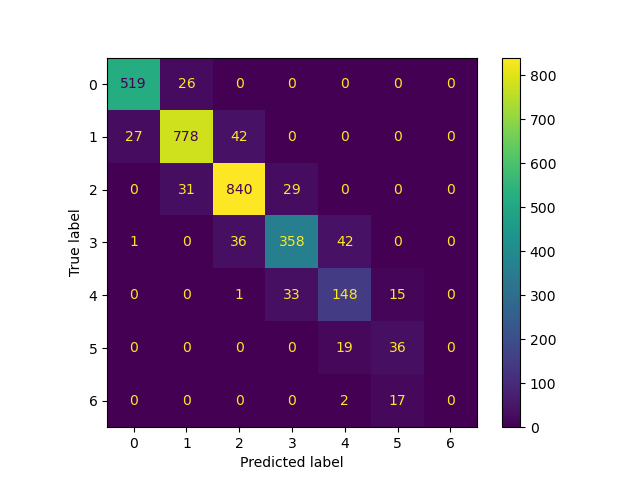
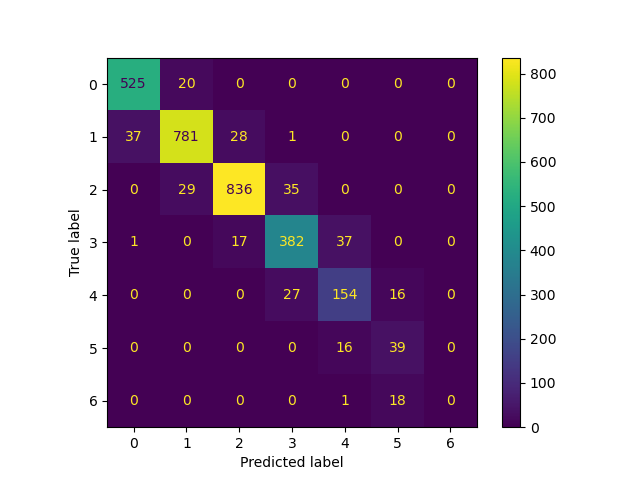
added preprocessor for other datasets

diff --git a/Ex2/evolutionary_optimization.py b/Ex2/evolutionary_optimization.py
@@ -1,15 +1,15 @@
 from typing import List
 
 from sklearn.model_selection import train_test_split, cross_val_score
-from sklearn.preprocessing import StandardScaler
+from sklearn.preprocessing import StandardScaler, OneHotEncoder
 from sklearn.pipeline import Pipeline
 from sklearn.compose import ColumnTransformer
 from sklearn.neural_network import MLPClassifier
 from sklearn import metrics
 import time
 import pandas as pd
-
-from Ex2.hyperp_config import HyperpConfig
+from scipy.io import arff
+from hyperp_config import HyperpConfig
 
 
 def breast_cancer_preprocessing():
@@ -28,6 +28,48 @@ def breast_cancer_preprocessing():
     )
 
     return X, Y, preprocessor
+
+def loan_preprocessing():
+    # load data
+    loan = pd.read_csv("../datasets/Loan/loan-10k.lrn.csv", engine='python')
+
+    # preprocessing
+    X = loan.drop(['ID', 'grade'], axis = 1)
+    Y = loan.grade
+
+    numeric_features = X.drop(
+        ['term', 'emp_length', 'home_ownership', 'verification_status', 'loan_status',
+         'pymnt_plan', 'purpose', 'addr_state', 'initial_list_status', 'application_type',
+         'hardship_flag', 'debt_settlement_flag', 'disbursement_method'],
+        axis=1
+    ).columns
+
+    categorical_features = X.select_dtypes(include=['object']).columns
+
+    preprocessor = ColumnTransformer(
+        transformers=[
+            ('scaler', StandardScaler(), numeric_features),
+            ('onehot', OneHotEncoder(handle_unknown='ignore'), categorical_features)
+        ]
+    )
+
+    return X, Y, preprocessor
+
+def satimages_preprocessing():
+    satimage_arff = arff.loadarff('../datasets/Satimage/dataset_186_satimage.arff')
+    satimage = pd.DataFrame(satimage_arff[0])
+
+    X = satimage.drop(['class'], axis = 1)
+    Y = satimage['class'].astype(str)
+
+    preprocessor = ColumnTransformer(
+        transformers=[
+            ("scaler", StandardScaler(), X.columns)
+        ]
+    )
+
+    return X, Y, preprocessor
+
 
 def evolutionary_optimization(X, Y, preprocessor, pool_size: int):
     # https://en.wikipedia.org/wiki/Hyperparameter_optimization
@@ -56,5 +98,5 @@ def evolutionary_optimization(X, Y, preprocessor, pool_size: int):
 
 
 if __name__ == "__main__":
-    bc_X, bc_Y, bc_preprocessor = breast_cancer_preprocessing()
-    evolutionary_optimization(bc_X, bc_Y, bc_preprocessor, 100)
+    bc_X, bc_Y, bc_preprocessor = satimages_preprocessing()
+    evolutionary_optimization(bc_X, bc_Y, bc_preprocessor, 3)

diff --git a/Ex1/Loan/NN.py b/Ex1/Loan/NN.py
@@ -76,7 +76,7 @@ def classify():
 
     start = time.time()
     # train the MLP classifier
-    mlp = MLPClassifier(hidden_layer_sizes=(10, 10, 10),
+    mlp = MLPClassifier(hidden_layer_sizes=(10, 20, 10),
                         max_iter=300,
                         activation='tanh',
                         solver='adam')
